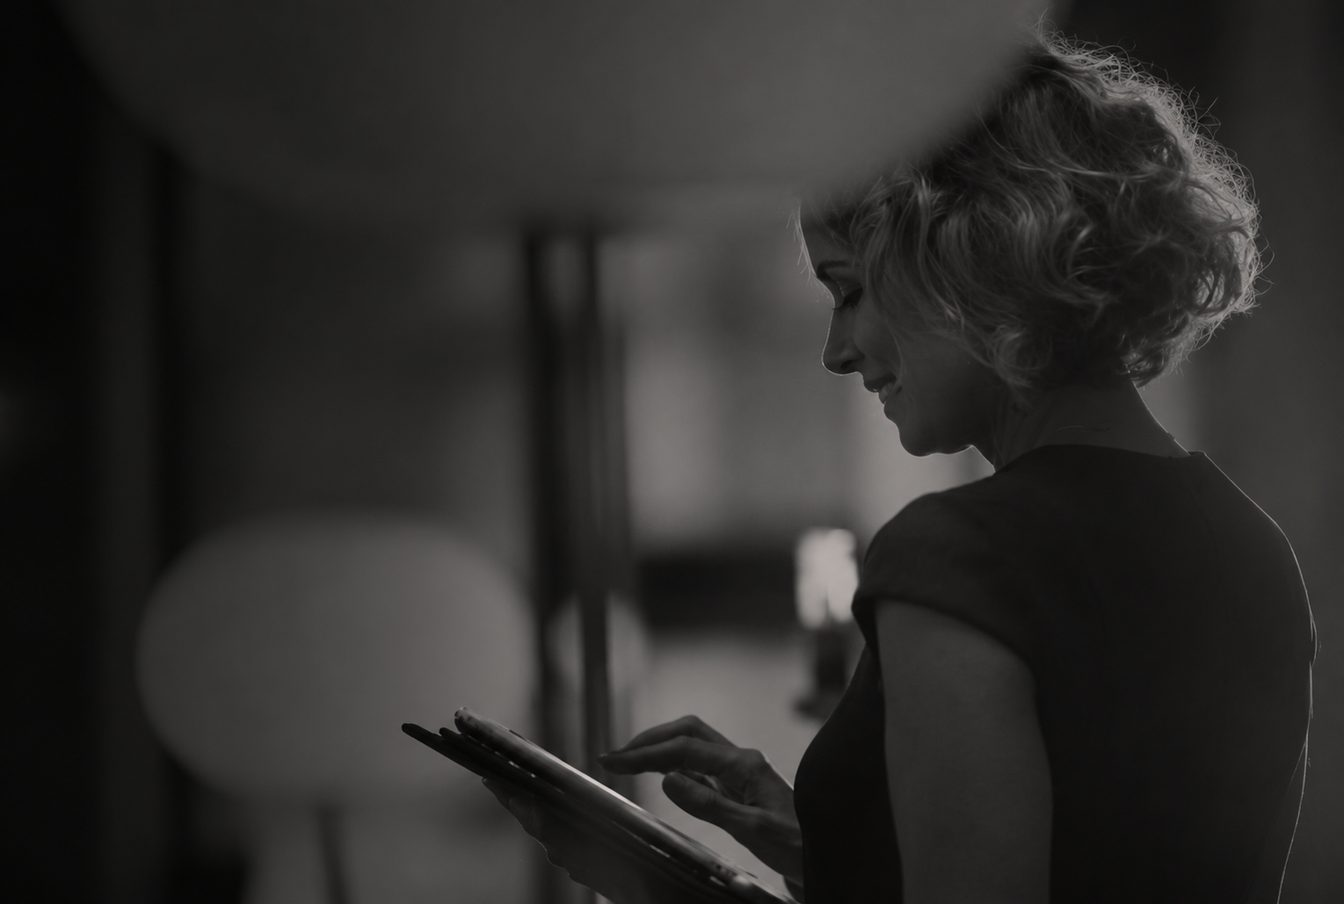
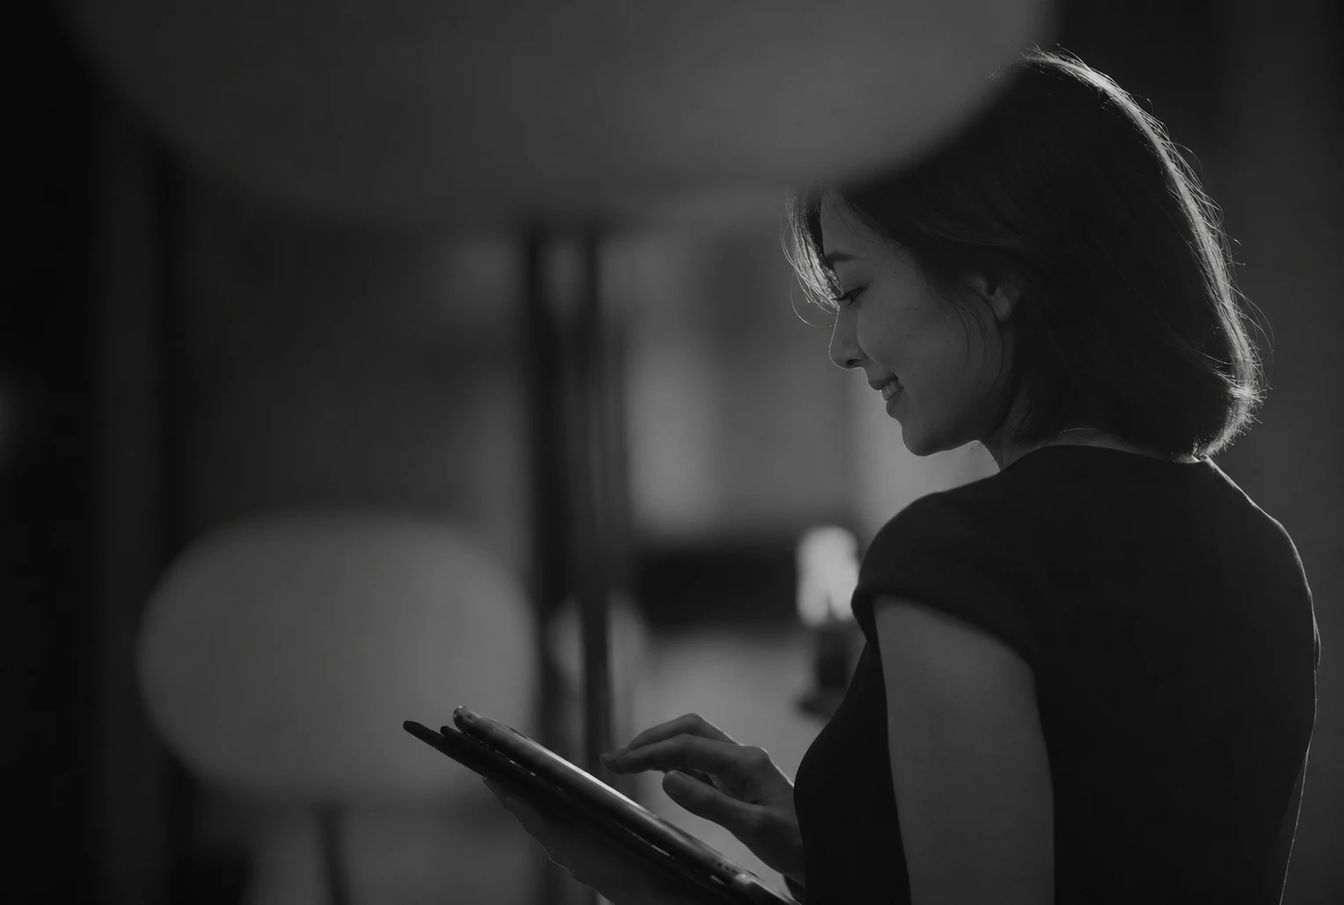
Client feedback: replace Caucasian stock photos on What we do slides
- practice-entry-office and service-arbitration: new images, regenerated at 640/960/1344/full in JPG and WebP under the same filenames
- Shift the 4:5 phone crop toward the subjects in both photos so faces stay in frame

Claude-Session: https://claude.ai/code/session_0123tVu3zRr4daoyttAN7mmn

diff --git a/library/components.css b/library/components.css
@@ -289,6 +289,9 @@ html:not(.js) .nav__links{display:none}
 .practice.services{--service-circle:12.5rem;padding-block:0;background:var(--grey-900);color:var(--on-dark)}
 .services__layer{position:relative;aspect-ratio:4 / 5;overflow:hidden;background:var(--grey-900)}
 .services__layer img{display:block;width:100%;height:100%;object-fit:cover}
+/* Subjects sit right of centre in these two photos, so shift the 4:5 phone crop toward them */
+.services__layer[data-entry] img{object-position:90% 50%}
+.services__layer[data-beat="2"] img{object-position:85% 50%}
 /* Dark wash over the entry photo: a separate layer so the timeline can fade it in */
 .services__shade{position:absolute;inset:0;background:rgba(42,43,46,var(--texture-overlay))}
 .services__copy{padding-block:3rem}
